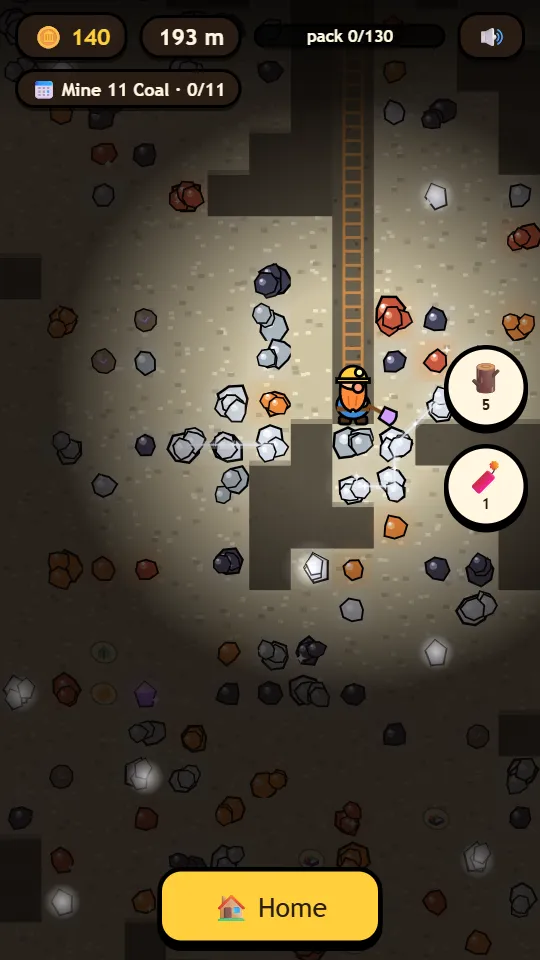
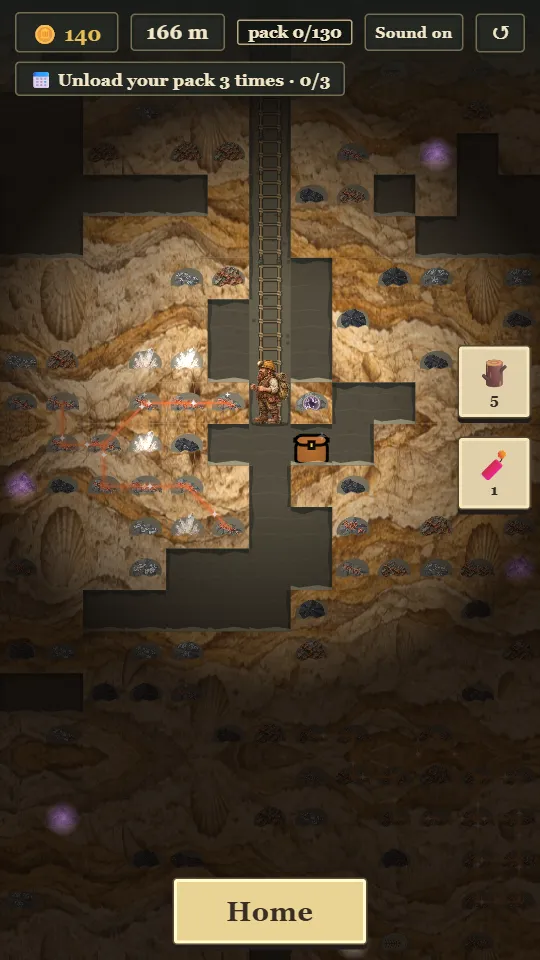
DigDeeper update: guide for the wider mine, hold to mine, renamed tools and restart; new screenshots of the engraved art; devlog post

diff --git a/dig-deeper.html b/dig-deeper.html
@@ -4,9 +4,9 @@
 <meta charset="utf-8">
 <meta name="viewport" content="width=device-width, initial-scale=1">
 <title>DigDeeper: play free in your browser · Rare Side Effects Studio</title>
-<meta name="description" content="DigDeeper player guide: a dig-down mining game where a cartoon dwarf tunnels through eight layers of rock, taps out ore and gems, smelts bars and upgrades every tool. How to play, strategy, tips and FAQ.">
+<meta name="description" content="DigDeeper player guide: a dig-down mining game where a dwarf miner tunnels through eight layers of rock in a mine 100 columns wide, mines ore and gems, smelts bars and upgrades every tool. How to play, strategy, tips and FAQ.">
 <meta property="og:title" content="DigDeeper: play free in your browser · Rare Side Effects Studio">
-<meta property="og:description" content="DigDeeper player guide: a dig-down mining game where a cartoon dwarf tunnels through eight layers of rock, taps out ore and gems, smelts bars and upgrades every tool.">
+<meta property="og:description" content="DigDeeper player guide: a dig-down mining game where a dwarf miner tunnels through eight layers of rock, mines ore and gems, smelts bars and upgrades every tool.">
 <meta property="og:image" content="https://sideeffectsstudio.buzz/img/og.jpg">
 <meta property="og:url" content="https://sideeffectsstudio.buzz/dig-deeper">
 <link rel="canonical" href="https://sideeffectsstudio.buzz/dig-deeper">
@@ -33,7 +33,7 @@
 <header class="page-head"><div class="wrap">
   <span class="kicker">Free browser game · early test</span>
   <div class="title-row"><img src="/img/dd-icon.png" alt="" width="256" height="256"><h1 class="display">DigDeeper</h1></div>
-  <p class="lead">A dig-down mining game. Steer a cartoon dwarf through eight layers of rock, tap out shiny ore and gems, haul them home to sell, and upgrade every tool so you can dig deeper still.</p>
+  <p class="lead">A dig-down mining game with an old field-guide look. Steer a dwarf miner through eight layers of rock and out to the left and right, mine shiny ore and gems, haul them home to sell, and upgrade every tool so you can dig deeper still.</p>
   <div class="ctas"><a class="btn btn-mint" href="https://digdeeper.sideeffectsstudio.buzz/">▶ Play DigDeeper free</a></div>
 </div></header>
 <div class="wrap prose">
@@ -41,6 +41,7 @@
     <li><a href="#how-to-play">How to play</a></li>
     <li><a href="#first-10-minutes">Your first 10 minutes</a></li>
     <li><a href="#layers">Layers and minerals</a></li>
+    <li><a href="#sideways">Left, right and the walls</a></li>
     <li><a href="#camp">The surface and Camp</a></li>
     <li><a href="#strategy">Strategy</a></li>
     <li><a href="#tips">Tips</a></li>
@@ -49,43 +50,43 @@
   </ul>
 </div>
 <div class="wrap">
-  <div class="shots" role="list" aria-label="Screenshots"><figure role="listitem"><img src="/img/dd-surface.webp" alt="The surface: the loot tank, the landing pad and the Trader's stall, with a ladder leading down" loading="lazy"><figcaption>Home at the surface</figcaption></figure><figure role="listitem"><img src="/img/dd-mine.webp" alt="The dwarf tunnelling through orange clay full of coal, copper and tin" loading="lazy"><figcaption>Mining in the clay</figcaption></figure><figure role="listitem"><img src="/img/dd-vein.webp" alt="A glittering silver vein branching through limestone, lit by the Glow Lamp" loading="lazy"><figcaption>A silver vein</figcaption></figure><figure role="listitem"><img src="/img/dd-shop.webp" alt="The Upgrades list with the Steel Spade, Iron Pick, Canvas Pack, Oil Lantern and Pulley Lift" loading="lazy"><figcaption>Upgrades</figcaption></figure><figure role="listitem"><img src="/img/dd-museum.webp" alt="The Camp museum with shelves of fossils and relics" loading="lazy"><figcaption>The museum</figcaption></figure><figure role="listitem"><img src="/img/dd-deep.webp" alt="Deep in the Crystal Caverns at 906 metres, with sapphires and gold" loading="lazy"><figcaption>Crystal Caverns</figcaption></figure></div>
+  <div class="shots" role="list" aria-label="Screenshots"><figure role="listitem"><img src="/img/dd-surface.webp" alt="The surface camp: the loot tank, the landing pad and the field equipment workshop, with a ladder leading down" loading="lazy"><figcaption>Home at the surface</figcaption></figure><figure role="listitem"><img src="/img/dd-mine.webp" alt="The dwarf miner swinging a pick into clay full of coal, copper and quartz" loading="lazy"><figcaption>Mining in the clay</figcaption></figure><figure role="listitem"><img src="/img/dd-vein.webp" alt="A glittering iron vein branching through limestone, lit by the Glow Lamp" loading="lazy"><figcaption>An iron vein</figcaption></figure><figure role="listitem"><img src="/img/dd-shop.webp" alt="The Equipment list with the Steel Mattock, Iron Pick, Canvas Pack, Headlamp and Pulley Lift" loading="lazy"><figcaption>Equipment</figcaption></figure><figure role="listitem"><img src="/img/dd-museum.webp" alt="The Camp museum with shelves of fossils and relics" loading="lazy"><figcaption>The museum</figcaption></figure><figure role="listitem"><img src="/img/dd-deep.webp" alt="Deep in the dark Crystal Caverns at 906 metres, with gems glowing in the lamp light" loading="lazy"><figcaption>Crystal Caverns</figcaption></figure></div>
 </div>
 <div class="wrap prose">
-  <div class="facts"><div><b>Free</b><span>No real-money purchases</span></div><div><b>Phone or computer</b><span>Plays in the browser</span></div><div><b>8 layers</b><span>Topsoil to Magma Rock</span></div><div><b>15 minerals</b><span>From coal to diamonds</span></div><div><b>No bottom</b><span>Dig as deep as you like</span></div></div>
+  <div class="facts"><div><b>Free</b><span>No real-money purchases</span></div><div><b>Phone or computer</b><span>Plays in the browser</span></div><div><b>8 layers</b><span>Topsoil to Magma Rock</span></div><div><b>15 minerals</b><span>From coal to diamonds</span></div><div><b>100 columns</b><span>Metals left, gems right</span></div><div><b>No bottom</b><span>Dig as deep as you like</span></div></div>
 
   <h2 id="how-to-play">How to play</h2>
   <ol class="steps">
     <li><b>Dig.</b> Hold and drag down, left or right to dig that way. On a computer, the arrow keys work too. Every step down leaves a ladder behind you, so there's always a way back up.</li>
-    <li><b>Mine.</b> Shiny rocks are ore and gems. Stand next to one and tap it with your pickaxe until it pops. Harder minerals take more taps.</li>
+    <li><b>Mine.</b> Shiny rocks are ore and gems. Walk up to one and keep holding toward it: your dwarf swings the pick until it pops. Harder minerals take more swings. On a phone you can also press and hold the rock itself, and rocks diagonally next to you mine with a tap.</li>
     <li><b>Fill your pack.</b> Everything you mine goes in your backpack. The bar at the top shows how full it is.</li>
-    <li><b>Go home.</b> Climb back up the ladders, or press the big <b>🏠 Home</b> button and your dwarf walks home the quickest way by itself.</li>
+    <li><b>Go home.</b> Climb back up the ladders, or press the big <b>Home</b> button and your dwarf walks home the quickest way by itself. Going down, hold down on a ladder to slide.</li>
     <li><b>Unload and sell.</b> Step onto the landing pad and your pack empties into the tank. Visit the <b>Trader</b> to sell what's in the tank for coins.</li>
-    <li><b>Upgrade.</b> Spend coins and minerals on better shovels, picks, packs, lamps, lifts and senders, then dig deeper for better finds.</li>
+    <li><b>Upgrade.</b> At <b>Equipment</b>, spend coins and minerals on better digging picks, mining picks, packs, lamps, lifts and senders, then dig deeper for better finds.</li>
   </ol>
-  <p>You can't dig upward with your shovel, only down and to the sides. To go up you climb ladders. Coins and depth sit at the top of the screen, next to the pack bar and the 🔊 sound switch. Under them is today's daily goal.</p>
+  <p>You can't dig plain rock upward, only down and to the sides, but you can mine a mineral right above you by holding up. To go up you climb ladders. Coins and depth sit at the top of the screen, next to the pack bar, the <b>Sound</b> switch and the <b>↺</b> button that starts a brand-new game. Under them is today's daily goal. The first time you find each mineral, a specimen card from your field journal pops up.</p>
 
   <h2 id="first-10-minutes">Your first 10 minutes</h2>
-  <p>You start at the surface with a plain Shovel, a Rusty Pick, a small Sack that holds 20, five support beams and one stick of dynamite. Topsoil is soft, so dig straight down a few metres and start tunnelling sideways.</p>
+  <p>You start at the surface with an Excavation Pick for digging, a Rusty Pick for mining, a small Sack that holds 20, five support beams and one stick of dynamite. Topsoil is soft, so dig straight down a few metres and start tunnelling sideways.</p>
   <ol>
-    <li>Look for coal (dark grey) and copper (orange) near the top. Tap each one until it pops into your pack.</li>
+    <li>Look for coal (dark grey) and copper (orange) near the top. Hold toward each one until it pops into your pack.</li>
     <li>When the pack is full, head home and step on the pad. Then open the Trader and sell, keeping 3 copper back.</li>
-    <li>Your first goal is the <b>Steel Spade</b>: 35 coins and 3 copper. It digs faster and can handle the Gravel layer below the clay.</li>
+    <li>Your first goal is the <b>Steel Mattock</b>: 35 coins and 3 copper, at Equipment. It digs faster and can handle the Gravel layer below the clay.</li>
     <li>Next, the <b>Canvas Pack</b> (60 coins) doubles what you can carry on each trip.</li>
-    <li>Below 18 m you'll find quartz, and from 30 m tin. Below 45 m comes iron, which you need for the Power Shovel, the Iron Pick and your first bars.</li>
+    <li>Below 18 m you'll find quartz, and from 30 m tin. Below 45 m comes iron, which you need for the Tempered Mattock, the Iron Pick and your first bars.</li>
   </ol>
   <p>Every 25 m you go deeper than ever before, the depth pops up on screen, and every new 100 m record pays coins equal to the depth.</p>
 
   <h2 id="layers">Layers and minerals</h2>
-  <p>The ground is made of eight layers, each one harder than the last. Your shovel shows which layers it can dig. One layer too hard and digging is very slow; two layers too hard and you can't dig at all, so you'll need a better shovel first.</p>
+  <p>The ground is made of eight layers, each one harder than the last. Your digging pick decides which layers you can dig. One layer too hard and digging is very slow; two layers too hard and you can't dig at all, so you'll need a better digging pick first.</p>
   <ul>
-    <li><b>Topsoil</b> (0 to 25 m) and <b>Clay</b> (to 75 m): the plain Shovel digs both.</li>
-    <li><b>Gravel</b> (to 150 m): the Steel Spade.</li>
-    <li><b>Limestone</b> (to 300 m): the Power Shovel.</li>
-    <li><b>Granite</b> (to 500 m): the Hand Drill.</li>
-    <li><b>Basalt</b> (to 800 m): the Jackhammer.</li>
-    <li><b>Crystal Caverns</b> (to 1,200 m): the Thermal Drill. Full of open caves.</li>
-    <li><b>Magma Rock</b> (1,200 m and down, with no bottom): the Plasma Bore.</li>
+    <li><b>Topsoil</b> (0 to 25 m) and <b>Clay</b> (to 75 m): the Excavation Pick you start with digs both.</li>
+    <li><b>Gravel</b> (to 150 m): the Steel Mattock.</li>
+    <li><b>Limestone</b> (to 300 m): the Tempered Mattock.</li>
+    <li><b>Granite</b> (to 500 m): the Granite Pick.</li>
+    <li><b>Basalt</b> (to 800 m): the Heavy Rock Pick.</li>
+    <li><b>Crystal Caverns</b> (to 1,200 m): the Crystal Pick. Full of open caves.</li>
+    <li><b>Magma Rock</b> (1,200 m and down, with no bottom): the Magma Pick.</li>
   </ul>
   <p>Minerals get rarer and more valuable the deeper you go. Each one starts at a set depth: coal and copper near the top, then quartz, tin and iron, amethyst from 90 m, silver from 150 m, topaz from 200 m, gold from 300 m, emerald from 350 m, sapphire from 500 m, platinum from 600 m, ruby from 700 m, cobalt from 900 m and diamond from 1,000 m. Gems are light and worth a lot; ore is heavy but you need it for upgrades.</p>
   <h3>Veins</h3>
@@ -99,12 +100,21 @@
   <h3>Dynamite</h3>
   <p>Tap 🧨 to light a stick. It blasts a 3 by 3 hole around you, and any ore in it pops loose. Dynamite costs 30 coins at the Trader, and chests sometimes have a couple.</p>
 
+  <h2 id="sideways">Left, right and the walls</h2>
+  <p>The mine is <b>100 columns wide</b>, with your camp in the middle. Walk or dig toward the edge of the screen and it scrolls along with you. The same layers carry on to both sides, but each side has its own riches:</p>
+  <ul>
+    <li><b>To the left (west):</b> metal country. Copper, tin, iron, silver, gold, platinum and cobalt are much more common, and veins are almost always metal.</li>
+    <li><b>To the right (east):</b> gem country. Quartz, amethyst, topaz, emerald, sapphire, ruby and diamond are much more common, and most veins are gems.</li>
+    <li><b>Under camp:</b> a mix of both, as before.</li>
+  </ul>
+  <p>The change builds up over the first 10 columns past camp. Solid bedrock walls mark the ends, 44 columns to the left and 43 to the right. When camp is off screen, a small sign at the edge points home with the distance, like "🏠 23 m ▶", and the Home button works from anywhere, even out on the grass. The catch is the walk: the further out you dig, the longer every trip home with a full pack.</p>
+
   <h2 id="camp">The surface and Camp</h2>
-  <p>At the surface you'll find the loot tank, the landing pad and three buttons:</p>
+  <p>At camp you'll find the loot tank, the landing pad and three buttons, which show while you're at camp:</p>
   <ul>
     <li><b>Trader:</b> sell anything in the tank. Each row shows exactly what you'll get, like "Sell for 30 🪙". The Trader also sells support beams and dynamite. Keep the ore and bars you need for your next upgrade.</li>
-    <li><b>Upgrades:</b> six tool lines. Each upgrade costs coins plus minerals or bars from your tank.</li>
-    <li><b>Camp:</b> four tabs.
+    <li><b>Equipment:</b> six tool lines. Each upgrade costs coins plus minerals or bars from your tank.</li>
+    <li><b>Field Camp:</b> four tabs.
       <ul>
         <li><b>Smelter:</b> turns ore into bars, which later upgrades need. A Bronze Bar takes 1 copper, 1 tin and 1 coal. An Iron Bar takes 2 iron and 1 coal. Silver and Gold Bars take 2 of their ore and 1 coal. Smelting keeps going while you dig, and even while the game is closed.</li>
         <li><b>Jeweler:</b> cracks geodes for gems.</li>
@@ -115,8 +125,8 @@
   </ul>
   <h3>The six tool lines</h3>
   <ul>
-    <li><b>🪏 Shovels</b> (7): dig faster and through harder layers, from the Shovel to the Plasma Bore.</li>
-    <li><b>⛏ Picks</b> (5): fewer taps per rock, plus lucky critical hits. The Sonic Pick also hits the rocks touching the one you tap.</li>
+    <li><b>🪏 Digging picks</b> (7): dig faster and through harder layers, from the Excavation Pick to the Magma Pick.</li>
+    <li><b>⛏ Mining picks</b> (5): fewer swings per rock, plus lucky critical hits. The Sonic Pick also hits the rocks touching the one you mine.</li>
     <li><b>🎒 Packs</b> (5): carry 20, 40, 75, 130 and then 220.</li>
     <li><b>🔦 Lamps</b> (3): see further in the dark.</li>
     <li><b>🛗 Lifts</b> (2): the Pulley Lift carries you up any straight open shaft. The Elevator is much faster.</li>
@@ -126,33 +136,36 @@
   <h2 id="strategy">Strategy</h2>
   <h3>Early game: Topsoil to Gravel</h3>
   <ul>
-    <li>Buy the Steel Spade first, then the Canvas Pack. A bigger pack means fewer trips home.</li>
+    <li>Buy the Steel Mattock first, then the Canvas Pack. A bigger pack means fewer trips home.</li>
     <li>Dig one straight shaft down from near the pad and mine sideways from it. Short trips home are quicker.</li>
     <li>The Rope &amp; Bucket (150 coins and 4 iron) lets you send a full pack up your straight shaft and keep digging.</li>
-    <li>Save iron for the Power Shovel (8 iron) and the Iron Pick (5 iron).</li>
+    <li>Save iron for the Tempered Mattock (8 iron) and the Iron Pick (5 iron). The metal side to the left makes iron easier to find.</li>
   </ul>
   <h3>Middle game: Limestone and Granite</h3>
   <ul>
-    <li>Start smelting. The Hand Drill needs Iron and Bronze Bars, and the Miner's Rig pack needs Bronze Bars. Keep coal in the tank, because every bar needs one.</li>
-    <li>Silver from 150 m and gold from 300 m sell for much more than iron. Topaz and emerald are small but very valuable.</li>
+    <li>Start smelting. The Granite Pick needs Iron and Bronze Bars, and the Miner's Rig pack needs Bronze Bars. Keep coal in the tank, because every bar needs one.</li>
+    <li>Silver from 150 m and gold from 300 m sell for much more than iron. Topaz and emerald are small but very valuable, and easier to find on the gem side to the right.</li>
     <li>The Pulley Lift (600 coins and 4 Iron Bars) saves a lot of climbing once your shaft is deep.</li>
-    <li>Granite is a long stretch. Use the time to fill museum shelves and save up for the Jackhammer.</li>
+    <li>Granite is a long stretch. Use the time to fill museum shelves and save up for the Heavy Rock Pick.</li>
   </ul>
   <h3>Late game: Basalt and beyond</h3>
   <ul>
-    <li>The Thermal Drill needs Gold Bars and platinum, and the Plasma Bore needs cobalt and diamonds, so the deep tools pay for themselves with what they dig up.</li>
+    <li>The Crystal Pick needs Gold Bars and platinum, and the Magma Pick needs cobalt and diamonds. Platinum and cobalt come easier out west and diamonds out east, so the deep tools send you both ways.</li>
     <li>The Elevator and the Pneumatic Tube make the long trips home quick.</li>
     <li>Veins deep down are worth following all the way to their ends.</li>
   </ul>
 
   <h2 id="tips">Tips</h2>
   <ul>
-    <li>Check the Upgrades list before selling. The numbers in brackets show what's already in your tank.</li>
+    <li>Check the Equipment list before selling. The numbers in brackets show what's already in your tank.</li>
     <li>When the pack is full, extra ore you mine is left behind, so head home before you crack that big gem.</li>
     <li>Place a beam as soon as you hear creaking. Two beams cover a 14-tile tunnel.</li>
-    <li>If you're lost, press 🏠 Home. Tap it again, or any direction, to stop.</li>
+    <li>If you're lost, press Home. Tap it again, or any direction, to stop.</li>
+    <li>Hold down while standing on a ladder to slide down it fast. Let go to stop.</li>
+    <li>Carry beams when you dig long tunnels to the sides: a run of 5 or more tiles can cave in.</li>
     <li>A ladder that stops above you still works: climb up from right under it.</li>
-    <li>Sound effects can be switched off with the 🔊 button at the top.</li>
+    <li>Sound effects can be switched off with the Sound button at the top.</li>
+    <li>Want a fresh start? The ↺ button at the top starts a brand-new game after asking you first.</li>
   </ul>
 
   <h2 id="parents">For parents</h2>
@@ -161,7 +174,7 @@
     <li><b>Ads:</b> the game shows no ads.</li>
     <li><b>Saving:</b> progress saves automatically in the browser on your device. There's no account and no sign-in. Clearing the browser's site data deletes the save, and a save on one device doesn't move to another.</li>
     <li><b>Online:</b> the game loads from our website and then runs on its own. It doesn't send anything about the player anywhere. There's no chat and no contact with other players.</li>
-    <li><b>Content:</b> a friendly cartoon dwarf, rocks, gems and fossils. There's no fighting. The only "danger" is a tunnel caving in, which just fills with soft rubble. Dynamite makes a cartoon bang.</li>
+    <li><b>Content:</b> a dwarf miner drawn in an old field-guide style, rocks, gems and fossils. There's no fighting. The only "danger" is a tunnel caving in, which just fills with soft rubble. Dynamite makes a cartoon bang.</li>
     <li><b>Early test:</b> the game is new and still changing. A big update could change how things work.</li>
   </ul>
 
@@ -170,18 +183,20 @@
     <details><summary>Is DigDeeper free?</summary><p>Yes. It's free to play in your browser, and there's nothing to buy with real money.</p></details>
     <details><summary>Do I need to download anything?</summary><p>No. Open the game's web page on a phone, tablet or computer and tap "Start digging".</p></details>
     <details><summary>Where is my progress saved?</summary><p>In your browser, on the device you play on. It saves by itself. If you clear the browser's data for the site, the save is gone.</p></details>
+    <details><summary>How wide is the mine?</summary><p>100 columns, with camp in the middle and bedrock walls at both ends. Metals are richer to the left, gems to the right.</p></details>
     <details><summary>How deep does it go?</summary><p>There's no bottom. Magma Rock starts at 1,200 m and goes on forever, and every new 100 m record pays coins.</p></details>
-    <details><summary>Why can't I dig here?</summary><p>The layer is too hard for your shovel. One layer too hard digs very slowly; two layers too hard won't dig at all. Buy the next shovel in Upgrades.</p></details>
-    <details><summary>Why can't I dig up?</summary><p>Shovels only dig down and sideways. Climb the ladders you left behind, or press 🏠 Home.</p></details>
+    <details><summary>Why can't I dig here?</summary><p>The layer is too hard for your digging pick. One layer too hard digs very slowly; two layers too hard won't dig at all. Buy the next one at Equipment.</p></details>
+    <details><summary>Why can't I dig up?</summary><p>Plain rock only digs down and sideways, though you can mine a mineral right above you. Climb the ladders you left behind, or press Home.</p></details>
     <details><summary>The Home button says "No way home". What now?</summary><p>Something, like a cave-in, has blocked every path up. Dig sideways or down to reach another ladder or shaft, then try again.</p></details>
+    <details><summary>How do I start over?</summary><p>Tap the ↺ button at the top of the screen. The game asks first, then erases your save and starts a brand-new mine.</p></details>
     <details><summary>Does anything happen while the game is closed?</summary><p>Bars in the smelter keep smelting. Nothing bad happens while you're away.</p></details>
-    <details><summary>Is there sound?</summary><p>Yes: scoops, crunches, pings and sparkles for every mineral. Turn them on or off with the 🔊 button.</p></details>
+    <details><summary>Is there sound?</summary><p>Yes: scoops, crunches, pings and sparkles for every mineral. Turn them on or off with the Sound button.</p></details>
   </div>
 
   <h2>Play it now</h2>
   <p>DigDeeper runs in your browser on a phone, tablet or computer. There's nothing to download, and your progress saves automatically on your device.</p>
   <div class="ctas"><a class="btn btn-mint" href="https://digdeeper.sideeffectsstudio.buzz/">▶ Play now</a></div>
-  <p>Want the story behind the game? Read the devlog post <a href="/devlog/digdeeper-early-test">DigDeeper: a dwarf, a shovel and no bottom</a>.</p>
+  <p>Want the story behind the game? Read the devlog posts <a href="/devlog/digdeeper-early-test">DigDeeper: a dwarf, a shovel and no bottom</a> and <a href="/devlog/digdeeper-wider-mine-new-look">DigDeeper: a wider mine, hold to mine and a new look</a>.</p>
   <h2>Privacy</h2>
   <p>DigDeeper keeps its save on your device and doesn't collect personal information. For the details, see our <a href="/privacy">studio privacy policy</a>.</p>
   <h2>More from the studio</h2>

diff --git a/devlog/digdeeper-wider-mine-new-look.html b/devlog/digdeeper-wider-mine-new-look.html
@@ -1,0 +1,74 @@
+<!doctype html>
+<html lang="en">
+<head>
+<meta charset="utf-8">
+<meta name="viewport" content="width=device-width, initial-scale=1">
+<title>DigDeeper: a wider mine, hold to mine and a new look · Rare Side Effects Studio</title>
+<meta name="description" content="DigDeeper's first big update: the mine is now 100 columns wide with metals to the left and gems to the right, you mine by holding toward a rock, and the whole game has a new engraved field-guide look.">
+<meta property="og:title" content="DigDeeper: a wider mine, hold to mine and a new look">
+<meta property="og:description" content="DigDeeper's first big update: the mine is now 100 columns wide with metals to the left and gems to the right, you mine by holding toward a rock, and the whole game has a new engraved field-guide look.">
+<meta property="og:image" content="https://sideeffectsstudio.buzz/img/og.jpg">
+<meta property="og:url" content="https://sideeffectsstudio.buzz/devlog/digdeeper-wider-mine-new-look">
+<link rel="canonical" href="https://sideeffectsstudio.buzz/devlog/digdeeper-wider-mine-new-look">
+<meta name="theme-color" content="#160b30">
+<link rel="icon" href="/img/logo-mark-64.png" type="image/png">
+<link rel="apple-touch-icon" href="/img/logo-mark-256.png">
+<link rel="preconnect" href="https://fonts.googleapis.com">
+<link rel="preconnect" href="https://fonts.gstatic.com" crossorigin>
+<link href="https://fonts.googleapis.com/css2?family=Lilita+One&display=swap" rel="stylesheet">
+<link rel="stylesheet" href="/site.css">
+<script async src="https://pagead2.googlesyndication.com/pagead/js/adsbygoogle.js?client=ca-pub-3165119131311933" crossorigin="anonymous"></script>
+</head>
+<body class="game-page dd">
+<nav aria-label="Main">
+  <div class="wrap">
+    <a class="brand" href="/" aria-label="Rare Side Effects Studio home">
+      <span class="brand-tile"><img src="/img/logo-mark-64.png" alt="" width="64" height="64"></span>
+      <span>Rare Side Effects<small>Studio</small></span>
+    </a>
+    <div class="navlinks"><a href="/#games">Games</a><a href="/devlog">Devlog</a><a href="/about">About</a><a href="/contact">Contact</a></div>
+  </div>
+</nav>
+<main>
+<header class="page-head"><div class="wrap">
+  <span class="kicker"><a href="/devlog" style="color:inherit;text-decoration:none">Devlog</a> · DigDeeper</span>
+  <h1 class="display">DigDeeper: a wider mine, hold to mine and a new look</h1>
+  <p class="post-meta"><time datetime="2026-11-13">November 13, 2026</time> · by Dr.Dev</p>
+</div></header>
+<article class="wrap prose">
+  <p>DigDeeper came out as an early test yesterday, and the first round of playing it turned up three things I wanted to change straight away: the mine felt narrow, tapping every rock got tiring, and the art didn't feel like a real expedition yet. All three are fixed in today's update.</p>
+  <figure class="wide"><img src="/img/dd-update.webp" alt="Three phone screens from DigDeeper's new look: mining into clay, a vein in limestone, and the dark Crystal Caverns" loading="lazy"><figcaption>The new engraved look: clay, a vein in limestone and the Crystal Caverns.</figcaption></figure>
+  <h2>A mine 100 columns wide</h2>
+  <p>Until now the mine was exactly one screen wide. Now it's <b>100 columns</b>, with your camp in the middle. Walk or dig toward the edge of the screen and it glides along with you. Solid bedrock walls mark the two ends.</p>
+  <p>I didn't want the extra ground to be more of the same, so each side has its own riches. The same layers run all the way across, but <b>to the left is metal country</b>, where copper, iron, silver, gold, platinum and cobalt are far more common, and <b>to the right is gem country</b>, where quartz, amethyst, topaz, emerald, sapphire, ruby and diamond are. The deep tools need both, so you end up working both sides.</p>
+  <p>The catch is the walk home. A rich seam 40 columns out is a long trip with a full pack, so a small sign at the screen edge always points back to camp, and the Home button now works from anywhere, even out on the grass. I checked the numbers with the same robot that plays every game first: digging under camp earns exactly what it did before, and the sides pay a little more per rock to make up for the trip.</p>
+  <h2>Hold to mine</h2>
+  <p>You no longer have to tap every rock. <b>Keep holding toward a mineral</b> and your dwarf swings the pick until it pops, then steps in if you keep holding. Harder minerals take more swings, just like they took more taps, and a better pick still makes it quicker. It works up, too, so you can mine a mineral right above your head. Tapping still works if you prefer it.</p>
+  <h2>A new look</h2>
+  <p>The whole game now looks like an old field guide: engraved rock layers, illustrated minerals, timber ladders and supports, a sepia surface camp, and a pickaxe that actually strikes the rock with chips flying off. The first time you find each mineral, a specimen card from your field journal pops up with a short note about it. You can also slide down a ladder by holding down on it.</p>
+  <p>All that art made the game heavy, so I shrank it before release: it now loads about 2 MB instead of nearly 12.</p>
+  <h2>Also new</h2>
+  <ul>
+    <li>A <b>↺</b> button at the top starts a brand-new game, after asking first.</li>
+    <li>The Home button no longer gets confused by a one-tile hole in a tunnel floor.</li>
+    <li>The shop is now called Equipment, and the camp is the Field Camp.</li>
+  </ul>
+  <p>Your old save still works, and the mine under your camp is exactly where you left it. If you play, I'd love to know which side you dig first.</p>
+  <div class="ctas"><a class="btn btn-mint" href="https://digdeeper.sideeffectsstudio.buzz/">▶ Play DigDeeper</a><a class="btn btn-ghost" href="/dig-deeper">Read the guide</a></div>
+  <p><a href="/devlog">← All devlog posts</a></p>
+</article>
+</main>
+<footer>
+  <div class="wrap">
+    <span>© 2026 Rare Side Effects Studio</span>
+    <div class="legal">
+      <a href="/devlog">Devlog</a>
+      <a href="/stories">Stories</a>
+      <a href="/about">About</a>
+      <a href="/contact">Contact</a>
+      <a href="/privacy">Privacy policy</a>
+    </div>
+  </div>
+</footer>
+</body>
+</html>

diff --git a/index.html b/index.html
@@ -496,8 +496,8 @@ footer a { color: var(--muted); }
 
     <article class="game dd flip" aria-labelledby="dd-title">
       <div class="media">
-        <div class="phone"><img src="img/dd-mine.webp" alt="A cartoon dwarf tunnelling through orange clay full of coal, copper and tin" loading="lazy" width="540" height="960"></div>
-        <div class="phone small"><img src="img/dd-deep.webp" alt="Deep in the Crystal Caverns at 906 metres, with sapphires and gold" loading="lazy" width="540" height="960"></div>
+        <div class="phone"><img src="img/dd-mine.webp" alt="A dwarf miner swinging a pick into clay full of coal, copper and quartz" loading="lazy" width="540" height="960"></div>
+        <div class="phone small"><img src="img/dd-deep.webp" alt="Deep in the dark Crystal Caverns at 906 metres, with gems glowing in the lamp light" loading="lazy" width="540" height="960"></div>
       </div>
       <div class="info">
         <div class="logo-row">
@@ -510,8 +510,9 @@ footer a { color: var(--muted); }
         <p class="tag">Grab a shovel. Dig down. There's no bottom.</p>
         <ul>
           <li><span><b>Dig through eight layers of rock,</b> from soft topsoil to crystal caverns and magma.</span></li>
-          <li><span><b>Tap out 15 minerals</b> from coal to diamonds, and follow rare glittering veins that get richer the deeper you go.</span></li>
-          <li><span><b>Haul it home and sell it,</b> smelt bars, and upgrade your shovel, pick, pack, lamp and lift.</span></li>
+          <li><span><b>Hold toward a rock to mine it.</b> 15 minerals from coal to diamonds, and rare glittering veins that get richer the deeper you go.</span></li>
+          <li><span><b>Dig left for metals, right for gems.</b> The mine is 100 columns wide with your camp in the middle.</span></li>
+          <li><span><b>Haul it home and sell it,</b> smelt bars, and upgrade your picks, pack, lamp and lift.</span></li>
           <li><span><b>Never get stuck.</b> Every step down leaves a ladder, and the Home button walks you back up.</span></li>
         </ul>
         <div class="ctas">
@@ -540,6 +541,7 @@ footer a { color: var(--muted); }
     <h2 class="display">Devlog &amp; stories</h2>
     <p class="sub">What changed in each game lately, and how a one-person studio makes them.</p>
     <ul class="news-list">
+      <li><a href="/devlog/digdeeper-wider-mine-new-look">DigDeeper: a wider mine, hold to mine and a new look</a></li>
       <li><a href="/devlog/digdeeper-early-test">DigDeeper: a dwarf, a shovel and no bottom</a></li>
       <li><a href="/devlog/pocket-acres-seasons-and-winter-crops">What&#39;s new in Pocket Acres: seasons and winter crops</a></li>
       <li><a href="/devlog/town-wars-early-test">Town Wars: your real town, now with battles and daily quests</a></li>

diff --git a/devlog/index.html b/devlog/index.html
@@ -37,6 +37,7 @@
 </div></header>
 <div class="wrap prose">
   <ul class="post-list">
+    <li><a href="/devlog/digdeeper-wider-mine-new-look"><img src="/img/dd-icon.png" alt="" width="64" height="64"><div><time datetime="2026-11-13">November 13, 2026 · DigDeeper</time><b>DigDeeper: a wider mine, hold to mine and a new look</b><span>DigDeeper's first big update: the mine is now 100 columns wide with metals to the left and gems to the right, you mine by holding toward a rock, and the whole game has a new engraved field-guide look.</span></div></a></li>
     <li><a href="/devlog/digdeeper-early-test"><img src="/img/dd-icon.png" alt="" width="64" height="64"><div><time datetime="2026-11-12">November 12, 2026 · DigDeeper</time><b>DigDeeper: a dwarf, a shovel and no bottom</b><span>DigDeeper is out as an early test: a dig-down mining game with eight layers of rock, 15 minerals, rare branching veins and a Home button that walks you back up. Here's how it came together.</span></div></a></li>
     <li><a href="/devlog/pocket-acres-seasons-and-winter-crops"><img src="/img/pa-icon.png" alt="" width="64" height="64"><div><time datetime="2026-11-07">November 7, 2026 · Pocket Acres</time><b>What's new in Pocket Acres: seasons and winter crops</b><span>Pocket Acres now has planting seasons: each crop goes in during two seasons, crops planted in their best season yield 10% more, and winter wheat, cabbage and garlic give your fields something to grow in the cold.</span></div></a></li>
     <li><a href="/devlog/town-wars-early-test"><img src="/img/tw-icon.png" alt="" width="64" height="64"><div><time datetime="2026-11-07">November 7, 2026 · Town Wars</time><b>Town Wars: your real town, now with battles and daily quests</b><span>Town Wars turns your real town into a kingdom. In its first week as an early test it gained silly gangs, battles you can play, buildings on real places, neighbor towns, daily quests and slower, fairer pacing.</span></div></a></li>
